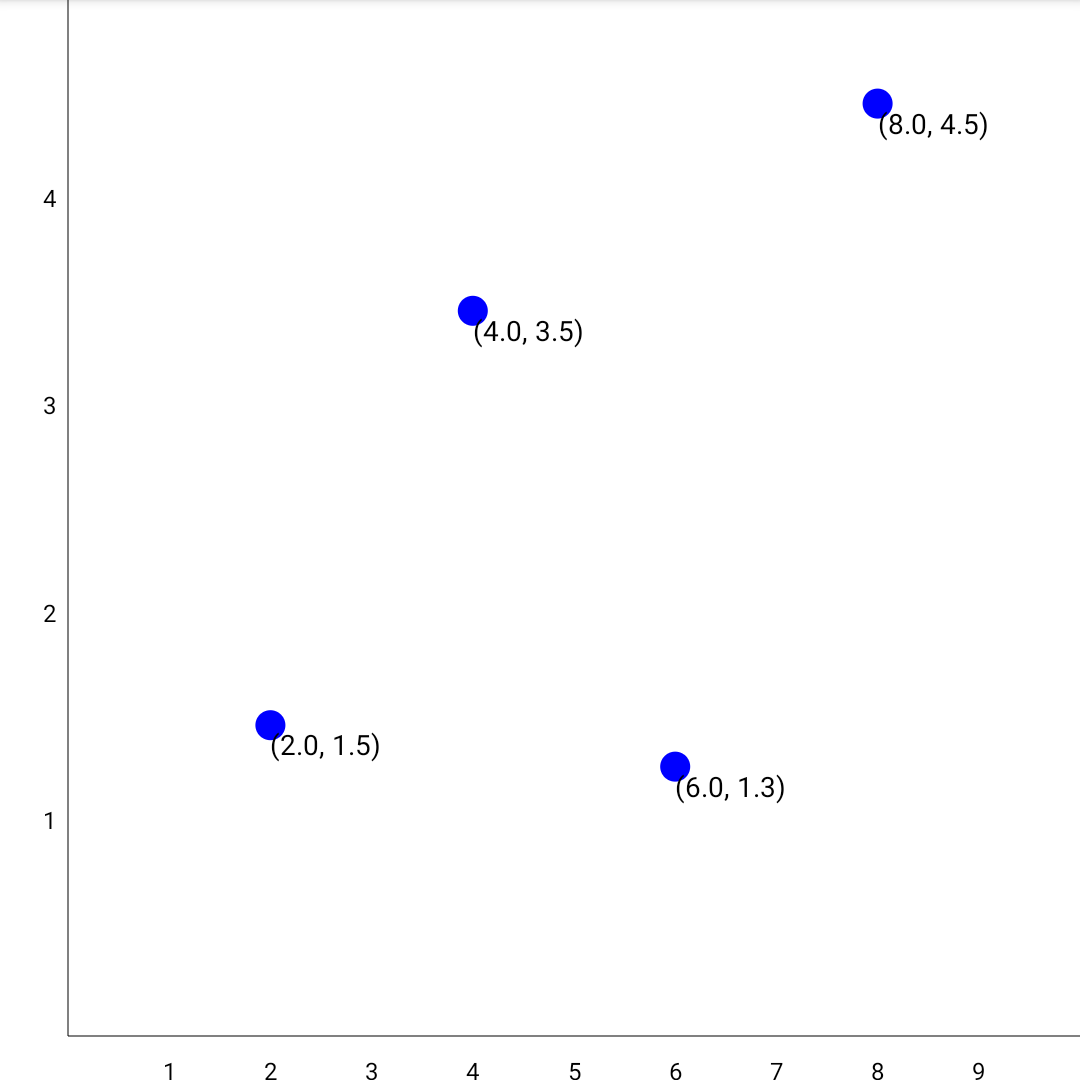
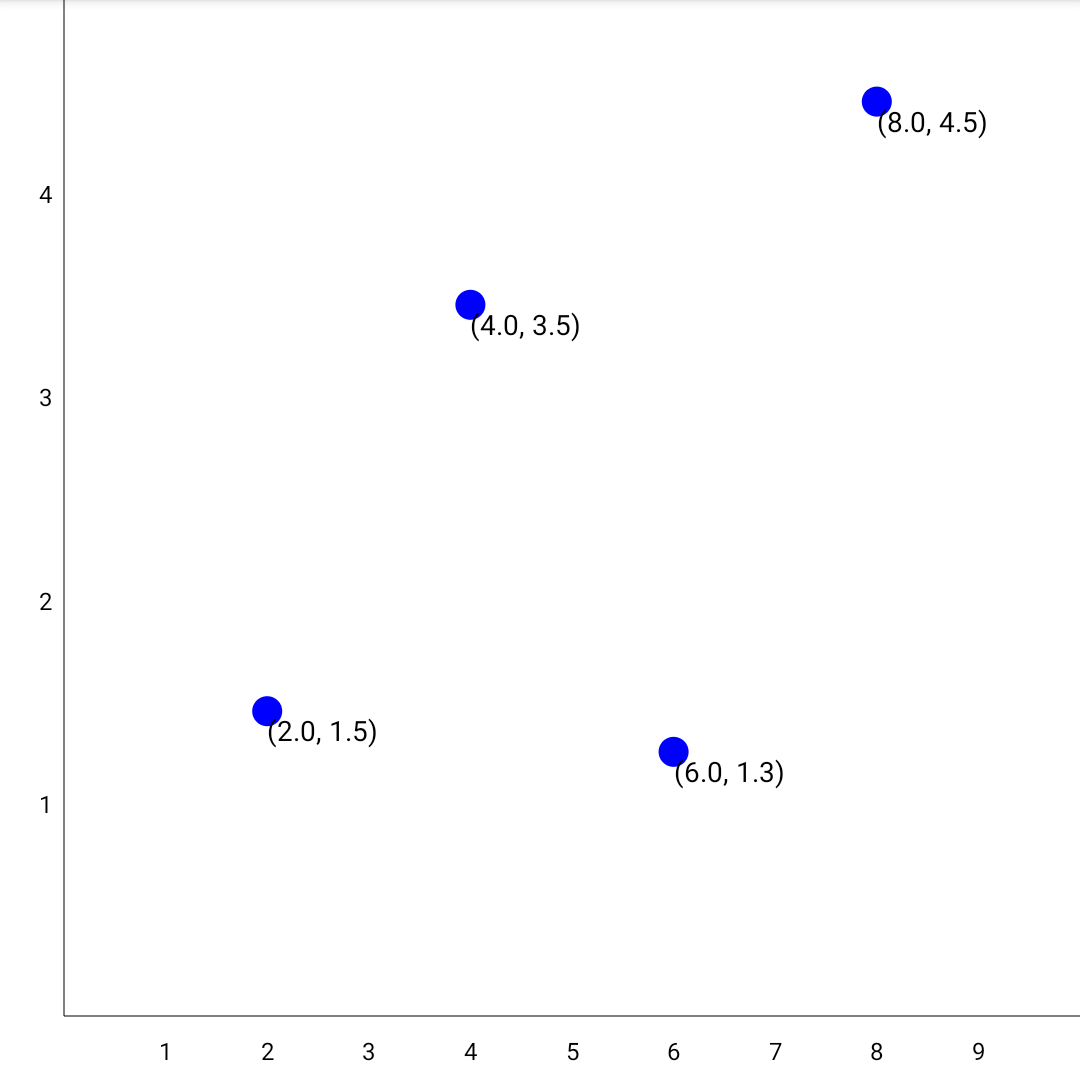
feat: leave setting proper chart paddings to the user

diff --git a/lib/src/main/java/io/github/staakk/cchart/Chart.kt b/lib/src/main/java/io/github/staakk/cchart/Chart.kt
@@ -103,22 +103,9 @@ private fun Chart(
     onClick: (Offset, Point) -> Unit,
     scope: ChartScopeImpl
 ) {
-    val leftLabelSize = scope.verticalLabelRenderers.getMinLabelMaxSize()
-    val rightLabelSize = scope.verticalLabelRenderers.getMaxLabelMaxSize()
-    val topLabelSize = scope.horizontalLabelRenderers.getMinLabelMaxSize()
-    val bottomLabelSize = scope.horizontalLabelRenderers.getMaxLabelMaxSize()
-
     val density = LocalDensity.current
-    val paddingValues = with(density) {
-        PaddingValues(
-            start = leftLabelSize.width.toDp(),
-            end = rightLabelSize.width.toDp(),
-            top = topLabelSize.height.toDp(),
-            bottom = bottomLabelSize.height.toDp(),
-        )
-    }
 
-    BoxWithConstraints(modifier = modifier.then(Modifier.padding(paddingValues))) {
+    BoxWithConstraints(modifier = modifier) {
         val renderedPoints = remember { mutableStateOf(listOf<BoundingShape>()) }
         val canvasSize = with(density) { Size(width = maxWidth.toPx(), height = maxHeight.toPx()) }
         val rendererContext = rendererContext(viewport.value, canvasSize)
@@ -194,7 +181,7 @@ private fun Chart(
 
         scope.dataLabels.forEach {
             DataLabels(
-                modifier = modifier,
+                modifier = Modifier,
                 renderedShapes = renderedPoints.value,
                 canvasSize = canvasSize,
                 labelContent = it
@@ -202,7 +189,7 @@ private fun Chart(
         }
 
         AnchoredViews(
-            modifier = modifier,
+            modifier = Modifier,
             canvasSize = canvasSize,
             anchors = scope.anchors.mapKeys {
                 it.key to Offset(
@@ -213,14 +200,6 @@ private fun Chart(
         )
     }
 }
-
-private fun List<LabelRenderer>.getMinLabelMaxSize() = filter { it.getNormalisedPosition() < 0.5f }
-    .minByOrNull { it.getNormalisedPosition() }
-    ?.getMaxLabelSize() ?: Size.Zero
-
-private fun List<LabelRenderer>.getMaxLabelMaxSize() = filter { it.getNormalisedPosition() > 0.5f }
-    .maxByOrNull { it.getNormalisedPosition() }
-    ?.getMaxLabelSize() ?: Size.Zero
 
 /**
  * Receiver scope which is used by the [Chart].

diff --git a/viewtest/src/androidTest/java/io/github/staakk/cchart/viewtest/BarChartTest.kt b/viewtest/src/androidTest/java/io/github/staakk/cchart/viewtest/BarChartTest.kt
@@ -1,10 +1,12 @@
 package io.github.staakk.cchart.viewtest
 
 import androidx.compose.foundation.layout.aspectRatio
+import androidx.compose.foundation.layout.padding
 import androidx.compose.ui.Modifier
 import androidx.compose.ui.graphics.Color
 import androidx.compose.ui.graphics.SolidColor
 import androidx.compose.ui.test.junit4.createAndroidComposeRule
+import androidx.compose.ui.unit.dp
 import androidx.test.rule.GrantPermissionRule
 import com.karumi.shot.ScreenshotTest
 import io.github.staakk.cchart.Chart
@@ -39,6 +41,7 @@ class BarChartTest : ScreenshotTest {
             val verticalLabelRenderer = verticalLabelRenderer()
             Chart(
                 modifier = Modifier
+                    .padding(start = 32.dp, bottom = 32.dp)
                     .aspectRatio(1f, false),
                 viewport = Viewport(0f, 10f, 0f, 5f)
             ) {
@@ -80,6 +83,7 @@ class BarChartTest : ScreenshotTest {
             val verticalLabelRenderer = verticalLabelRenderer()
             Chart(
                 modifier = Modifier
+                    .padding(start = 32.dp, bottom = 32.dp)
                     .aspectRatio(1f, false),
                 viewport = Viewport(0f, 10f, 0f, 5f)
             ) {
@@ -155,6 +159,7 @@ class BarChartTest : ScreenshotTest {
             val verticalLabelRenderer = verticalLabelRenderer()
             Chart(
                 modifier = Modifier
+                    .padding(start = 32.dp, bottom = 32.dp)
                     .aspectRatio(1f, false),
                 viewport = Viewport(0f, 10f, 0f, 5f)
             ) {

diff --git a/samples/src/main/java/io/github/staakk/cchart/samples/AnimatedBarSizeChart.kt b/samples/src/main/java/io/github/staakk/cchart/samples/AnimatedBarSizeChart.kt
@@ -3,6 +3,7 @@ package io.github.staakk.cchart.samples
 import androidx.compose.animation.core.animateFloatAsState
 import androidx.compose.animation.core.tween
 import androidx.compose.foundation.layout.aspectRatio
+import androidx.compose.foundation.layout.padding
 import androidx.compose.material.Surface
 import androidx.compose.runtime.Composable
 import androidx.compose.runtime.LaunchedEffect
@@ -11,6 +12,7 @@ import androidx.compose.runtime.remember
 import androidx.compose.ui.Modifier
 import androidx.compose.ui.graphics.SolidColor
 import androidx.compose.ui.tooling.preview.Preview
+import androidx.compose.ui.unit.dp
 import io.github.staakk.cchart.Chart
 import io.github.staakk.cchart.axis.horizontalAxisRenderer
 import io.github.staakk.cchart.axis.verticalAxisRenderer
@@ -36,7 +38,9 @@ fun AnimatedBarSizeChartScreen() {
     }
 
     Chart(
-        modifier = Modifier.aspectRatio(1f, false),
+        modifier = Modifier
+            .padding(start = 32.dp, bottom = 32.dp)
+            .aspectRatio(1f, false),
         viewport = Viewport(0f, 6f, 0f, 5f)
     ) {
         series(

diff --git a/viewtest/src/androidTest/java/io/github/staakk/cchart/viewtest/ReadmeGalleryTest.kt b/viewtest/src/androidTest/java/io/github/staakk/cchart/viewtest/ReadmeGalleryTest.kt
@@ -72,6 +72,7 @@ class ReadmeGalleryTest : ScreenshotTest {
             val verticalLabelRenderer = verticalLabelRenderer()
             Chart(
                 modifier = Modifier
+                    .padding(start = 32.dp, bottom = 32.dp)
                     .aspectRatio(1f, false)
                     .padding(bottom = 16.dp),
                 viewport = Viewport(0f, 10f, 0f, 10f)
@@ -172,6 +173,7 @@ class ReadmeGalleryTest : ScreenshotTest {
             )
             Chart(
                 modifier = Modifier
+                    .padding(start = 32.dp, bottom = 32.dp)
                     .aspectRatio(1f, false)
                     .padding(bottom = 16.dp),
                 viewport = Viewport(
@@ -251,6 +253,7 @@ class ReadmeGalleryTest : ScreenshotTest {
             val density = LocalDensity.current
             Chart(
                 modifier = Modifier
+                    .padding(start = 32.dp, bottom = 32.dp, end = 32.dp)
                     .aspectRatio(1f, false)
                     .padding(bottom = 16.dp),
                 viewport = Viewport(0f, 10f, 0f, 10f)

diff --git a/samples/src/main/java/io/github/staakk/cchart/samples/AnimatedBarColorChart.kt b/samples/src/main/java/io/github/staakk/cchart/samples/AnimatedBarColorChart.kt
@@ -4,6 +4,7 @@ import androidx.compose.animation.Animatable
 import androidx.compose.animation.core.Spring
 import androidx.compose.animation.core.spring
 import androidx.compose.foundation.layout.aspectRatio
+import androidx.compose.foundation.layout.padding
 import androidx.compose.material.Surface
 import androidx.compose.runtime.Composable
 import androidx.compose.runtime.LaunchedEffect
@@ -12,6 +13,7 @@ import androidx.compose.ui.Modifier
 import androidx.compose.ui.graphics.Color
 import androidx.compose.ui.graphics.SolidColor
 import androidx.compose.ui.tooling.preview.Preview
+import androidx.compose.ui.unit.dp
 import io.github.staakk.cchart.Chart
 import io.github.staakk.cchart.axis.horizontalAxisRenderer
 import io.github.staakk.cchart.axis.verticalAxisRenderer
@@ -45,7 +47,9 @@ fun AnimatedBarColorChartScreen() {
     }
 
     Chart(
-        modifier = Modifier.aspectRatio(1f, false),
+        modifier = Modifier
+            .padding(start = 32.dp, bottom = 32.dp)
+            .aspectRatio(1f, false),
         viewport = Viewport(0f, 6f, 0f, 5f)
     ) {
         series(

diff --git a/viewtest/src/androidTest/java/io/github/staakk/cchart/viewtest/AxisLabelsTest.kt b/viewtest/src/androidTest/java/io/github/staakk/cchart/viewtest/AxisLabelsTest.kt
@@ -1,10 +1,12 @@
 package io.github.staakk.cchart.viewtest
 
 import androidx.compose.foundation.layout.aspectRatio
+import androidx.compose.foundation.layout.padding
 import androidx.compose.ui.Modifier
 import androidx.compose.ui.graphics.Color
 import androidx.compose.ui.graphics.SolidColor
 import androidx.compose.ui.test.junit4.createAndroidComposeRule
+import androidx.compose.ui.unit.dp
 import androidx.test.rule.GrantPermissionRule
 import com.karumi.shot.ScreenshotTest
 import io.github.staakk.cchart.Chart
@@ -55,6 +57,7 @@ class AxisLabelsTest : ScreenshotTest {
             )
             Chart(
                 modifier = Modifier
+                    .padding(32.dp)
                     .aspectRatio(1f, false),
                 viewport = Viewport(0f, 10f, 0f, 5f)
             ) {
@@ -137,6 +140,7 @@ class AxisLabelsTest : ScreenshotTest {
             )
             Chart(
                 modifier = Modifier
+                    .padding(48.dp)
                     .aspectRatio(1f, false),
                 viewport = Viewport(0f, 10f, 0f, 5f)
             ) {

diff --git a/samples/src/main/java/io/github/staakk/cchart/samples/DateLabelsChart.kt b/samples/src/main/java/io/github/staakk/cchart/samples/DateLabelsChart.kt
@@ -1,11 +1,13 @@
 package io.github.staakk.cchart.samples
 
 import androidx.compose.foundation.layout.aspectRatio
+import androidx.compose.foundation.layout.padding
 import androidx.compose.material.Surface
 import androidx.compose.runtime.Composable
 import androidx.compose.ui.Modifier
 import androidx.compose.ui.graphics.SolidColor
 import androidx.compose.ui.tooling.preview.Preview
+import androidx.compose.ui.unit.dp
 import io.github.staakk.cchart.Chart
 import io.github.staakk.cchart.axis.horizontalAxisRenderer
 import io.github.staakk.cchart.axis.verticalAxisRenderer
@@ -26,7 +28,9 @@ fun DateLabelsChartScreen() {
     val horizontalLabelRenderer = horizontalLabelRenderer(labelsProvider = DateLabelsProvider)
 
     Chart(
-        modifier = Modifier.aspectRatio(1f, false),
+        modifier = Modifier
+            .padding(start = 32.dp, bottom = 48.dp)
+            .aspectRatio(1f, false),
         viewport = Viewport(
             minX = LocalDate.of(2020, 9, 1).toEpochDay(),
             maxX = LocalDate.of(2021, 1, 1).toEpochDay(),

diff --git a/samples/src/main/java/io/github/staakk/cchart/samples/PanAndZoomChart.kt b/samples/src/main/java/io/github/staakk/cchart/samples/PanAndZoomChart.kt
@@ -1,12 +1,14 @@
 package io.github.staakk.cchart.samples
 
 import androidx.compose.foundation.layout.aspectRatio
+import androidx.compose.foundation.layout.padding
 import androidx.compose.material.Surface
 import androidx.compose.runtime.Composable
 import androidx.compose.ui.Modifier
 import androidx.compose.ui.geometry.Size
 import androidx.compose.ui.graphics.SolidColor
 import androidx.compose.ui.tooling.preview.Preview
+import androidx.compose.ui.unit.dp
 import io.github.staakk.cchart.Chart
 import io.github.staakk.cchart.axis.horizontalAxisRenderer
 import io.github.staakk.cchart.axis.verticalAxisRenderer
@@ -25,7 +27,9 @@ fun PanAndZoomScreen() {
     val verticalLabelRenderer = verticalLabelRenderer()
 
     Chart(
-        modifier = Modifier.aspectRatio(1f, false),
+        modifier = Modifier
+            .padding(start = 32.dp, bottom = 32.dp)
+            .aspectRatio(1f, false),
         viewport = Viewport(0f, 10f, 0f, 5f),
         maxViewport = Viewport(-10f, 20f, -5f, 10f),
         minViewportSize = Size(5f, 5f),

diff --git a/samples/src/main/java/io/github/staakk/cchart/samples/CombinedChart.kt b/samples/src/main/java/io/github/staakk/cchart/samples/CombinedChart.kt
@@ -1,12 +1,14 @@
 package io.github.staakk.cchart.samples
 
 import androidx.compose.foundation.layout.aspectRatio
+import androidx.compose.foundation.layout.padding
 import androidx.compose.material.Surface
 import androidx.compose.runtime.Composable
 import androidx.compose.ui.Modifier
 import androidx.compose.ui.geometry.Size
 import androidx.compose.ui.graphics.SolidColor
 import androidx.compose.ui.tooling.preview.Preview
+import androidx.compose.ui.unit.dp
 import io.github.staakk.cchart.Chart
 import io.github.staakk.cchart.axis.horizontalAxisRenderer
 import io.github.staakk.cchart.axis.verticalAxisRenderer
@@ -26,7 +28,9 @@ fun CombinedChartScreen() {
     val horizontalLabelRenderer = horizontalLabelRenderer()
     val verticalLabelRenderer = verticalLabelRenderer()
     Chart(
-        modifier = Modifier.aspectRatio(1f, false),
+        modifier = Modifier
+            .padding(start = 32.dp, bottom = 32.dp)
+            .aspectRatio(1f, false),
         viewport = Viewport(0f, 10f, 0f, 5f)
     ) {
         series(

diff --git a/samples/src/main/java/io/github/staakk/cchart/samples/GridChart.kt b/samples/src/main/java/io/github/staakk/cchart/samples/GridChart.kt
@@ -1,11 +1,13 @@
 package io.github.staakk.cchart.samples
 
 import androidx.compose.foundation.layout.aspectRatio
+import androidx.compose.foundation.layout.padding
 import androidx.compose.material.Surface
 import androidx.compose.runtime.Composable
 import androidx.compose.ui.Modifier
 import androidx.compose.ui.graphics.SolidColor
 import androidx.compose.ui.tooling.preview.Preview
+import androidx.compose.ui.unit.dp
 import io.github.staakk.cchart.Chart
 import io.github.staakk.cchart.axis.horizontalAxisRenderer
 import io.github.staakk.cchart.axis.verticalAxisRenderer
@@ -24,7 +26,9 @@ fun GridChartScreen() {
     val horizontalLabelRenderer = horizontalLabelRenderer()
     val verticalLabelRenderer = verticalLabelRenderer()
     Chart(
-        modifier = Modifier.aspectRatio(1f, false),
+        modifier = Modifier
+            .padding(start = 32.dp, bottom = 32.dp)
+            .aspectRatio(1f, false),
         viewport = Viewport(0f, 10f, 0f, 5f)
     ) {
         series(

diff --git a/samples/src/main/java/io/github/staakk/cchart/samples/BarChart.kt b/samples/src/main/java/io/github/staakk/cchart/samples/BarChart.kt
@@ -1,11 +1,13 @@
 package io.github.staakk.cchart.samples
 
 import androidx.compose.foundation.layout.aspectRatio
+import androidx.compose.foundation.layout.padding
 import androidx.compose.material.Surface
 import androidx.compose.runtime.Composable
 import androidx.compose.ui.Modifier
 import androidx.compose.ui.graphics.SolidColor
 import androidx.compose.ui.tooling.preview.Preview
+import androidx.compose.ui.unit.dp
 import io.github.staakk.cchart.Chart
 import io.github.staakk.cchart.axis.horizontalAxisRenderer
 import io.github.staakk.cchart.axis.verticalAxisRenderer
@@ -22,7 +24,9 @@ fun BarChartScreen() {
     val horizontalLabelRenderer = horizontalLabelRenderer()
     val verticalLabelRenderer = verticalLabelRenderer()
     Chart(
-        modifier = Modifier.aspectRatio(1f, false),
+        modifier = Modifier
+            .padding(start = 32.dp, bottom = 32.dp)
+            .aspectRatio(1f, false),
         viewport = Viewport(0f, 6f, 0f, 5f)
     ) {
         series(

diff --git a/samples/src/main/java/io/github/staakk/cchart/samples/PointChart.kt b/samples/src/main/java/io/github/staakk/cchart/samples/PointChart.kt
@@ -1,12 +1,14 @@
 package io.github.staakk.cchart.samples
 
 import androidx.compose.foundation.layout.aspectRatio
+import androidx.compose.foundation.layout.padding
 import androidx.compose.material.Surface
 import androidx.compose.runtime.Composable
 import androidx.compose.ui.Modifier
 import androidx.compose.ui.geometry.Size
 import androidx.compose.ui.graphics.SolidColor
 import androidx.compose.ui.tooling.preview.Preview
+import androidx.compose.ui.unit.dp
 import io.github.staakk.cchart.Chart
 import io.github.staakk.cchart.axis.horizontalAxisRenderer
 import io.github.staakk.cchart.axis.verticalAxisRenderer
@@ -24,7 +26,9 @@ fun PointChartScreen() {
     val verticalLabelRenderer = verticalLabelRenderer()
 
     Chart(
-        modifier = Modifier.aspectRatio(1f, false),
+        modifier = Modifier
+            .padding(start = 32.dp, bottom = 32.dp)
+            .aspectRatio(1f, false),
         viewport = Viewport(0f, 10f, 0f, 5f)
     ) {
         series(
